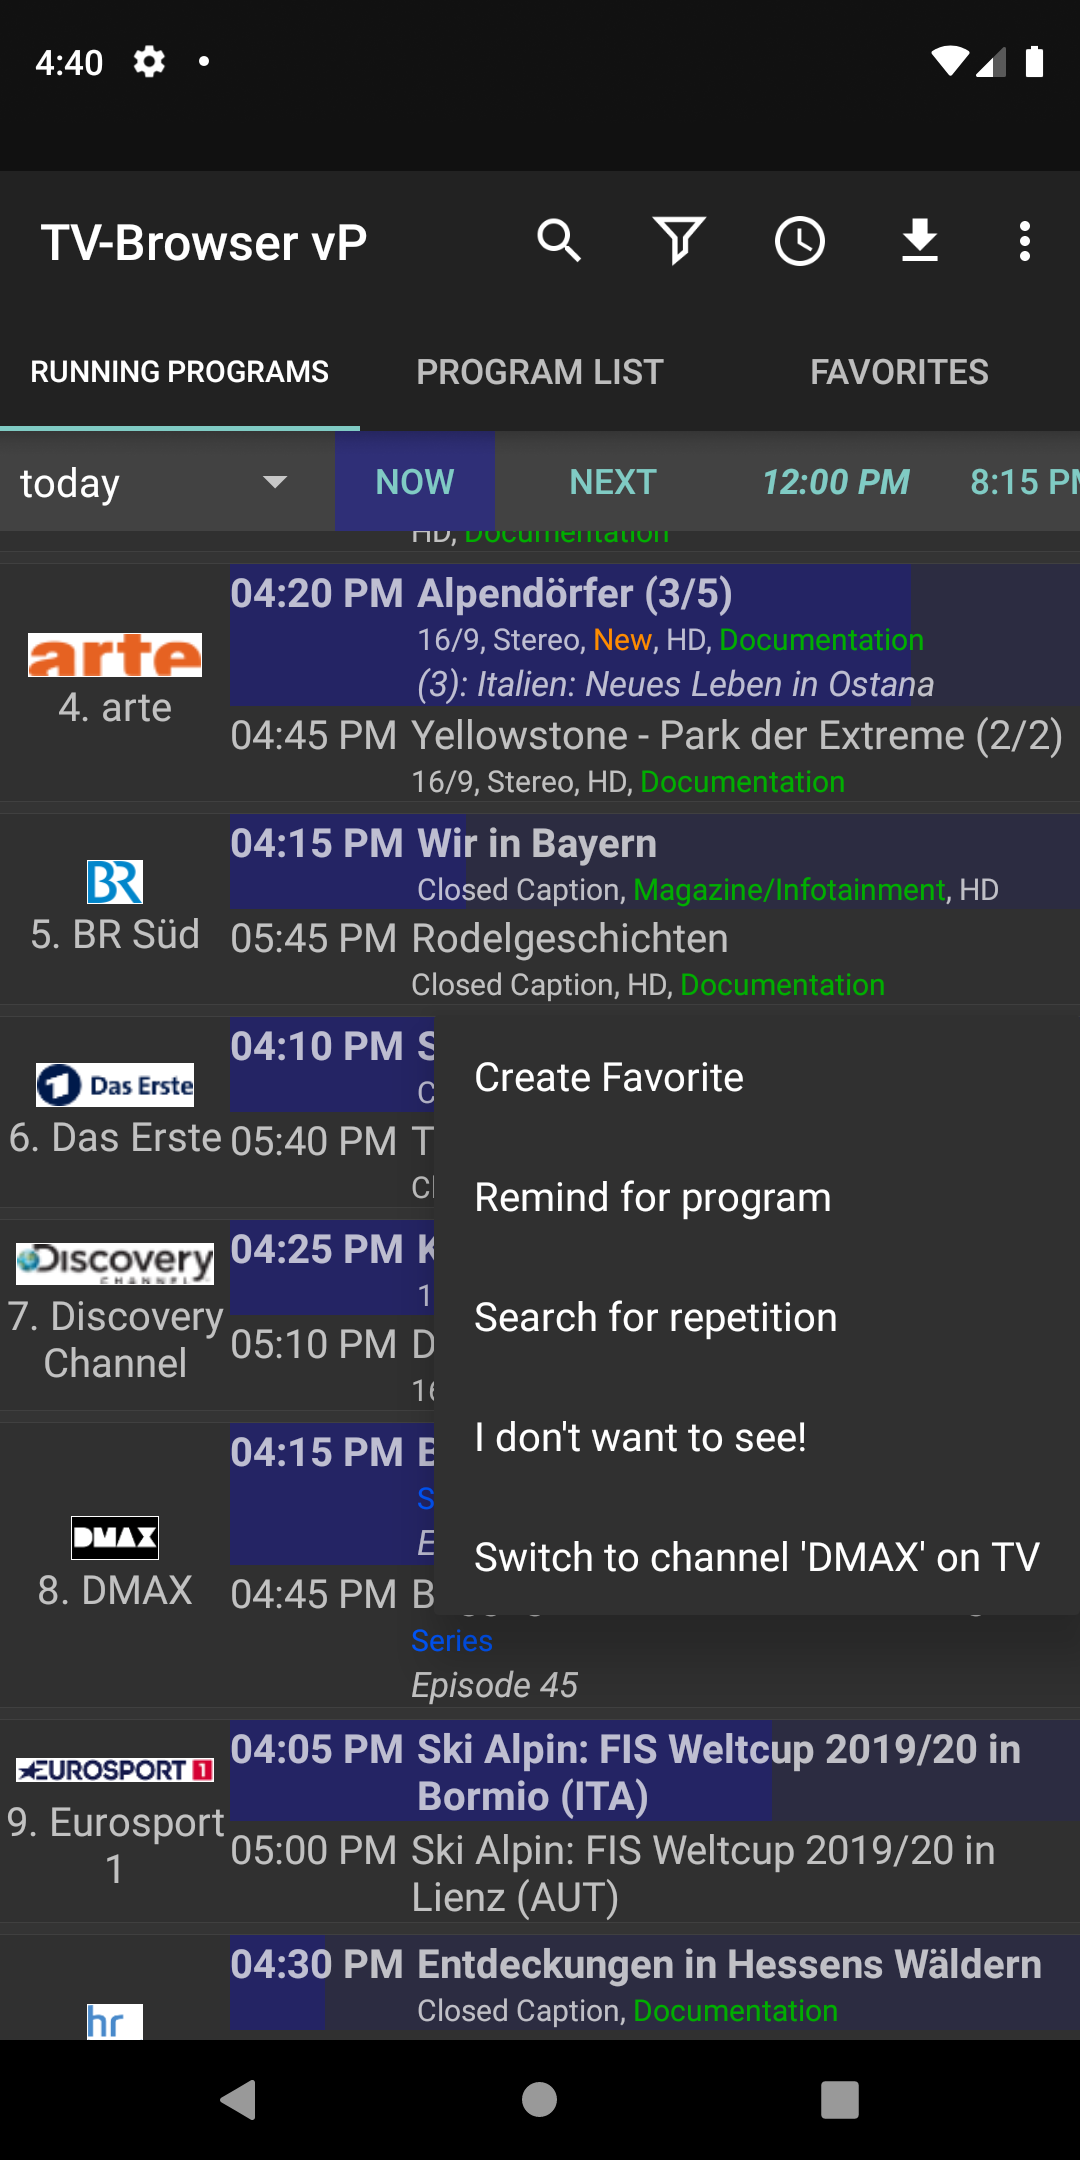
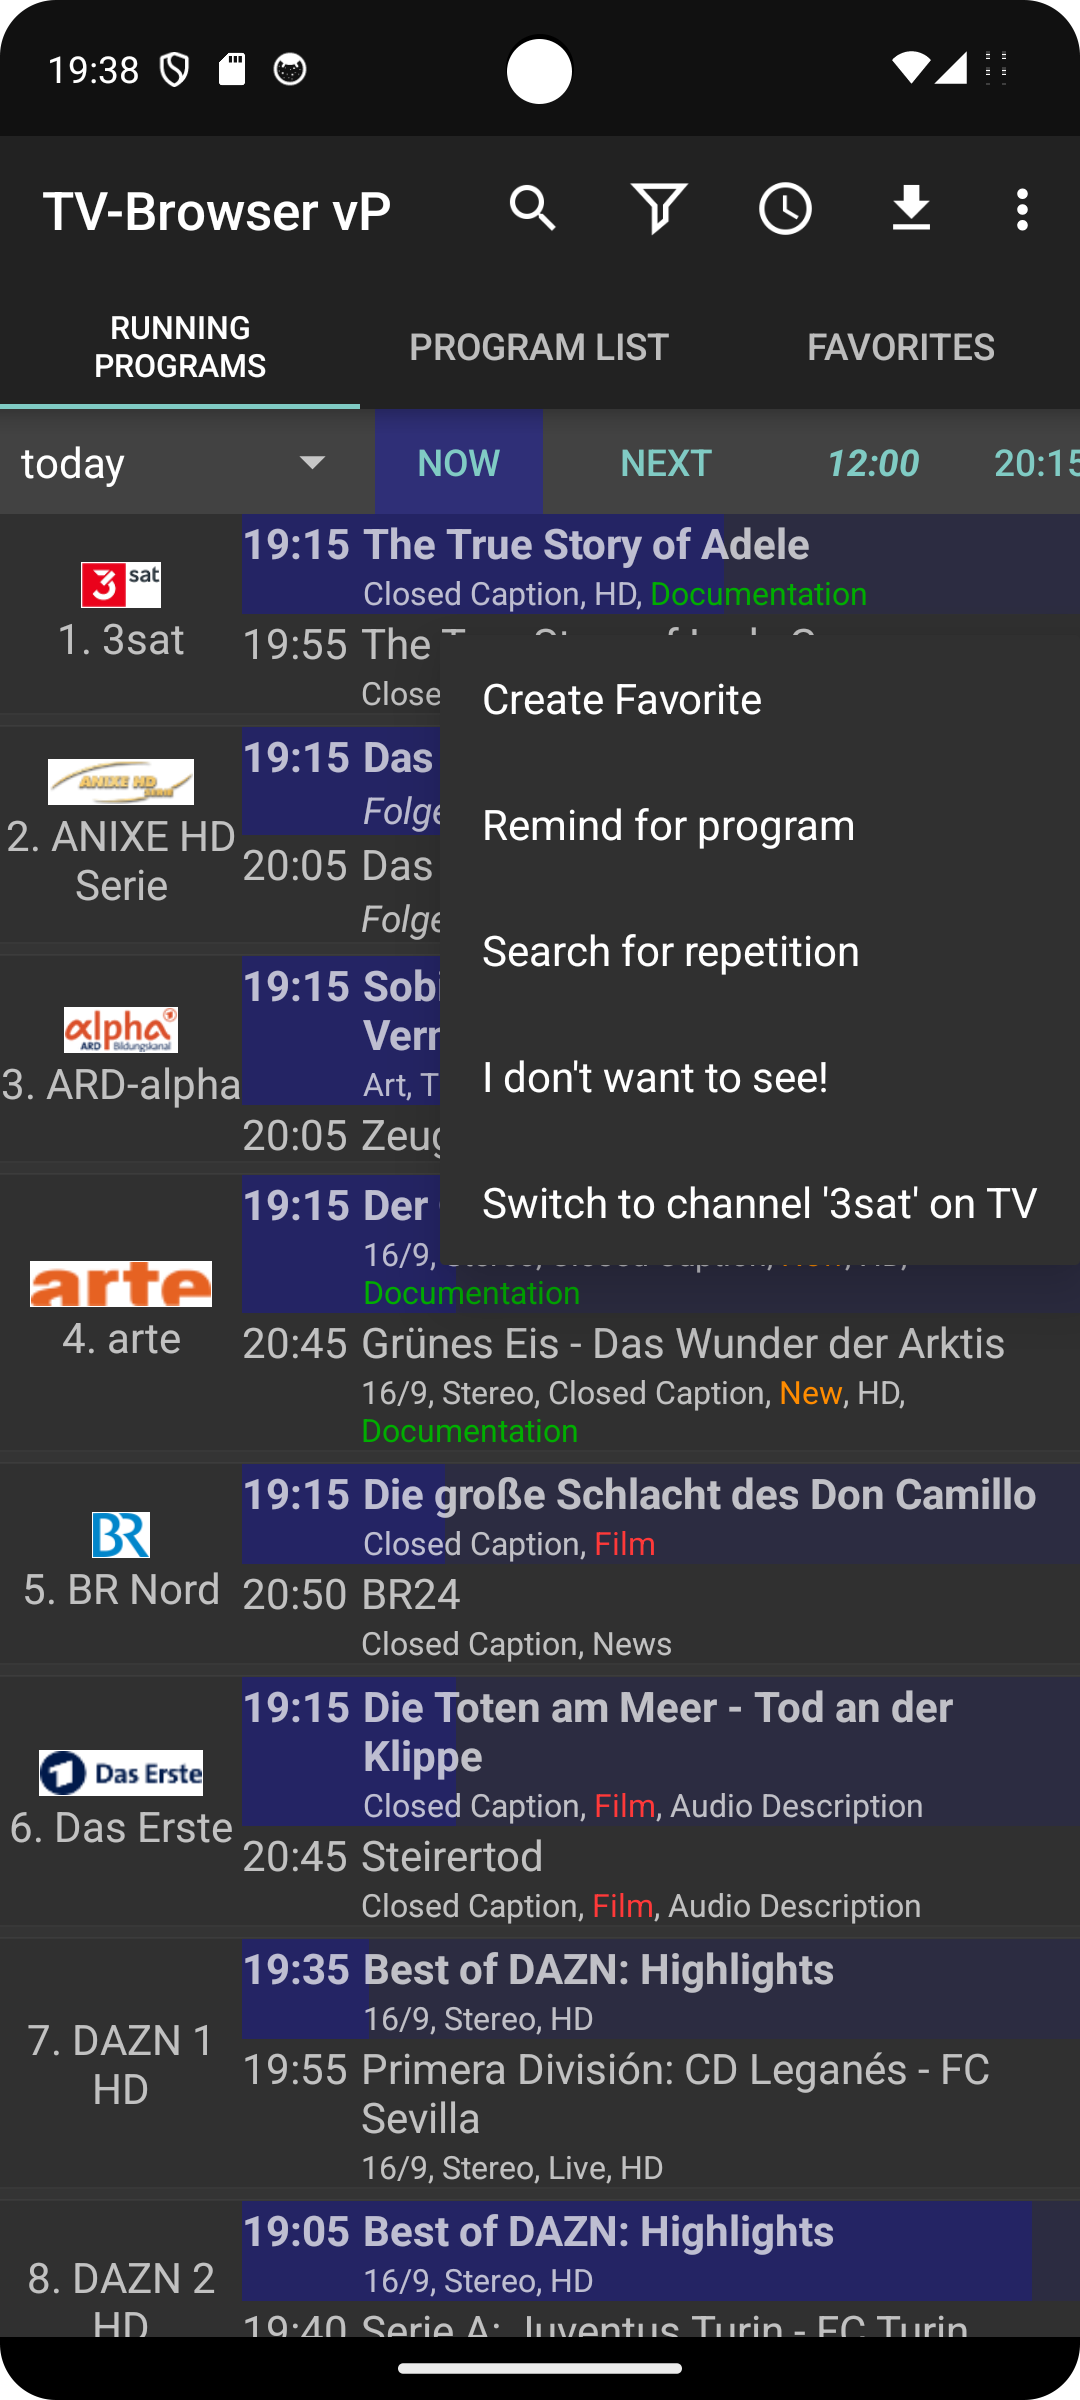
Doc changes

diff --git a/docs/index.md b/docs/index.md
@@ -37,7 +37,7 @@ Switch to a TV channel directly from the program guide (EPG)
 
 ### Quick installation and set-up guide
 
-- Install <a href="https://play.google.com/store/apps/details?id=org.andan.android.tvbrowser.sonycontrolplugin">*Channel Browser and Remote Control for Sony TV*</a>
+- Install <a href="https://play.google.com/store/apps/details?id=org.andan.android.tvbrowser.sonycontrolplugin">*Smart Channel Switch (Sony TV) Sony TV*</a>
 - Open app
 - Add new control for TV from main menu
 - For use as <a href="https://play.google.com/store/apps/details?id=org.tvbrowser.tvbrowser.play">*TV Browser*</a> plugin
@@ -69,8 +69,8 @@ The following sections provide more detailed descriptions of the set-up steps an
 #### TV channel list
 <img src="images/channel_list.png" width="300"/><br>
 - List TV channels with additional information
-    - <img src="images/ic_input_black.png" width="16"/>: channel source
-    - <img src="images/ic_action_arrow_right.png" width="16"/>: mapped *TV Browser* channel name
+    - <img src="images/ic_input.png" width="14"/>: channel source
+    - <img src="images/tvb.png" width="14"/>: mapped *TV Browser* channel name
 - Highlighted header item shows selected channel with current program information (if available)
     - Click to show further details (see [below](#details-of-current-program))
     - Long click to refresh program information from TV
